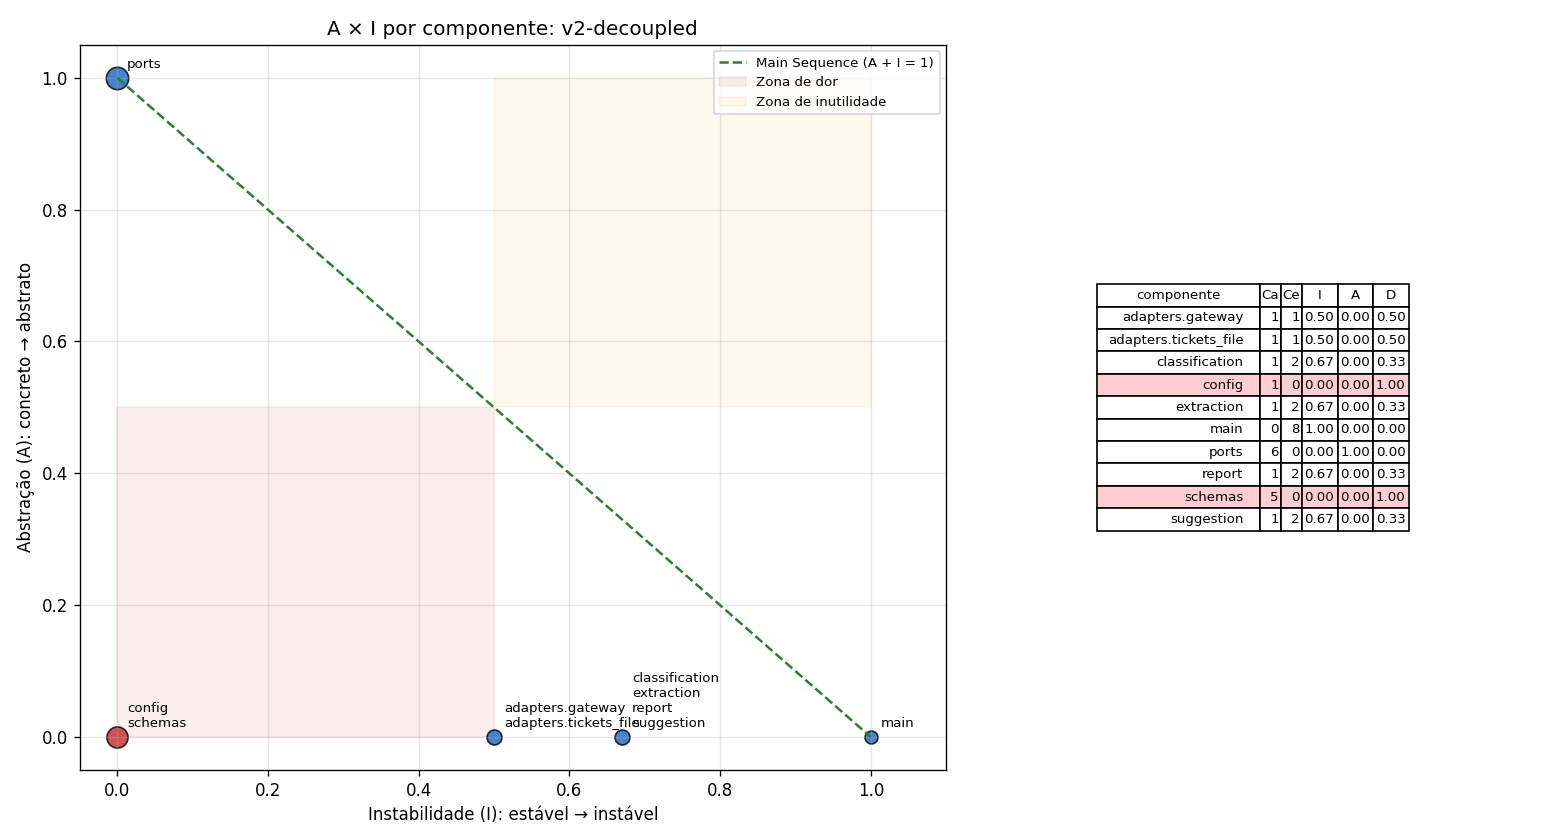
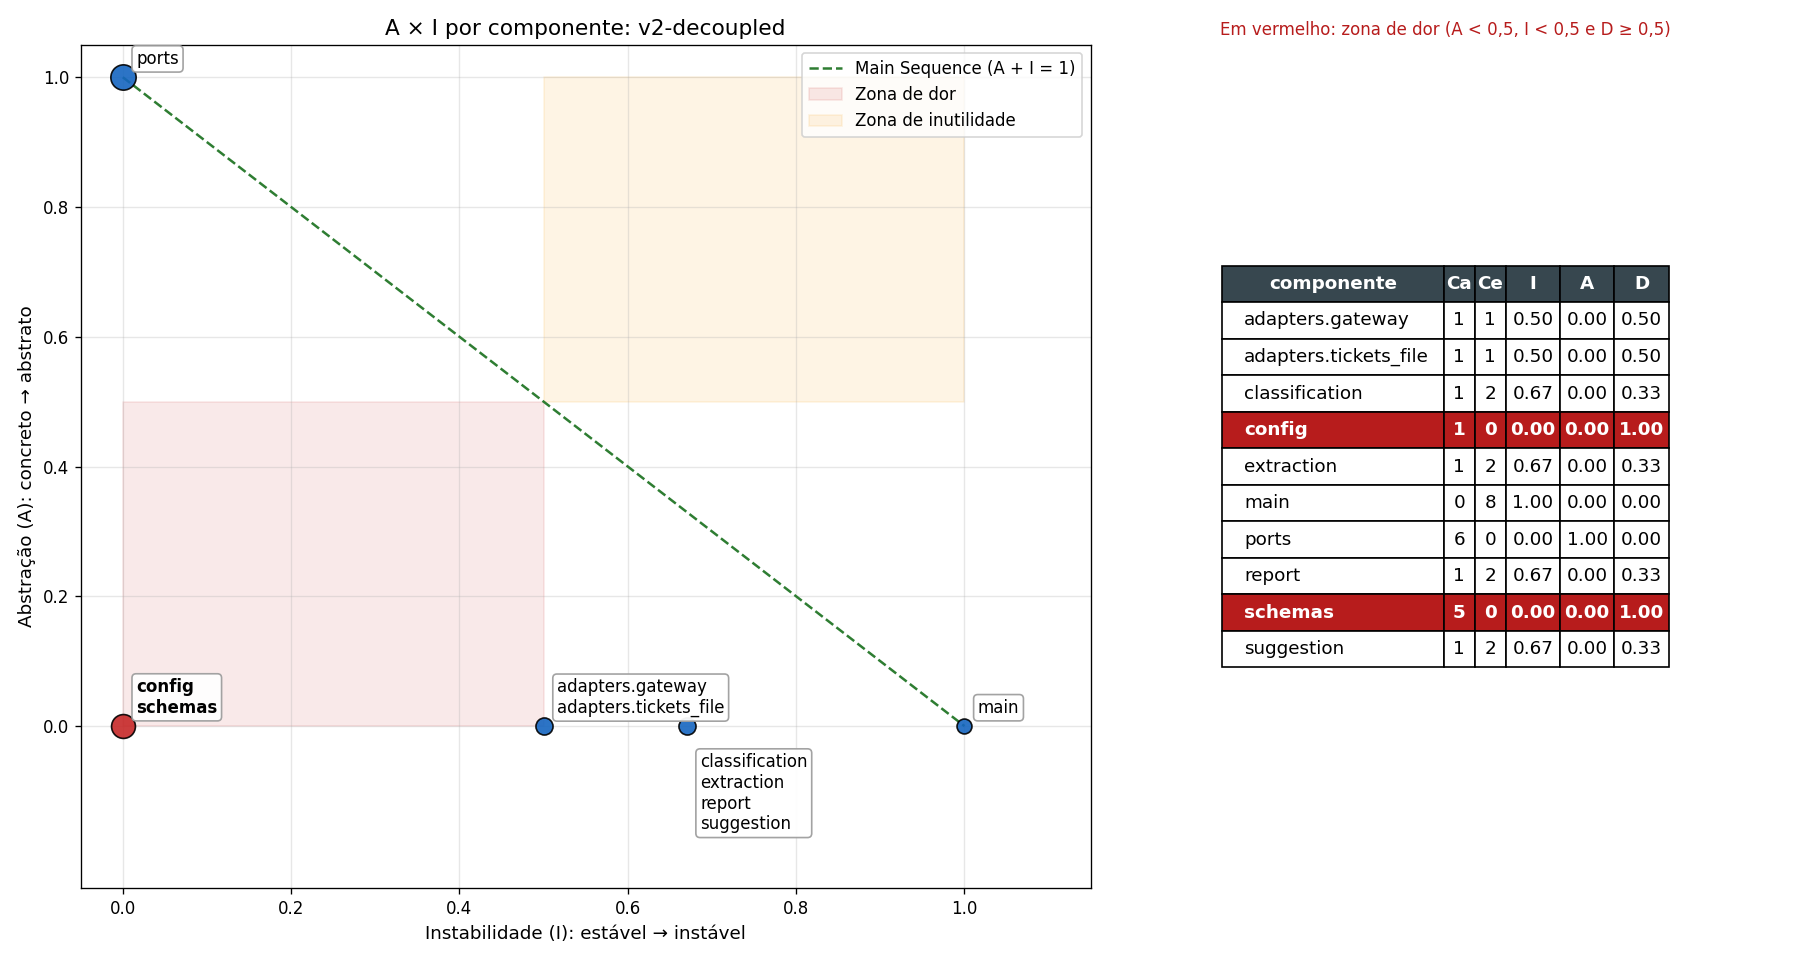
Gráficos de acoplamento legíveis para revisão humana
Tabela com fonte maior e zona de dor em branco sobre vermelho escuro,
rótulos com fundo branco que se alternam entre pontos vizinhos, e o
comparativo como um painel por versão lado a lado, no lugar dos
marcadores sobrepostos. CSVs e tabelas Markdown inalterados.

diff --git a/metrics/coupling.py b/metrics/coupling.py
@@ -199,44 +199,73 @@ def in_pain_zone(row: dict) -> bool:
     return row["a"] < 0.5 and row["i"] < 0.5 and row["d"] >= 0.5
 
 
+def draw_map(ax, rows: list[dict], title: str) -> None:
+    """Desenha o mapa A x I com Main Sequence, zonas e rótulos legíveis num eixo do matplotlib."""
+    ax.plot([0, 1], [1, 0], color="#2e7d32", linestyle="--", linewidth=1.5, label="Main Sequence (A + I = 1)")
+    ax.fill_between([0, 0.5], 0, 0.5, color="#c62828", alpha=0.10, label="Zona de dor")
+    ax.fill_between([0.5, 1], 0.5, 1, color="#f9a825", alpha=0.12, label="Zona de inutilidade")
+
+    # Componentes no mesmo ponto ganham um rótulo só, com os nomes empilhados. Pontos
+    # vizinhos na mesma altura alternam o rótulo entre acima e abaixo, para não encavalar.
+    points: dict[tuple[float, float], list[dict]] = {}
+    for row in rows:
+        points.setdefault((row["i"], row["a"]), []).append(row)
+    previous: tuple[float, float] | None = None
+    below = False
+    for (i, a), group in sorted(points.items()):
+        crowded = previous is not None and previous[1] == a and i - previous[0] < 0.25
+        below = (not below) if crowded else False
+        previous = (i, a)
+        pain = in_pain_zone(group[0])
+        ax.scatter(i, a, s=80 + 25 * max(r["ca"] for r in group), color="#c62828" if pain else "#1565c0",
+                   alpha=0.9, edgecolors="black", zorder=3)
+        lines = len(group)
+        ax.annotate("\n".join(r["component"] for r in group), (i, a), textcoords="offset points",
+                    xytext=(8, -14 * lines - 6 if below else 8), fontsize=10, color="black",
+                    fontweight="bold" if pain else "normal", zorder=4,
+                    bbox={"boxstyle": "round,pad=0.25", "facecolor": "white", "edgecolor": "#9e9e9e", "alpha": 0.95})
+    ax.set_xlim(-0.05, 1.15)
+    ax.set_ylim(-0.25, 1.05)
+    ax.set_yticks([0, 0.2, 0.4, 0.6, 0.8, 1.0])
+    ax.set_xlabel("Instabilidade (I): estável → instável", fontsize=11)
+    ax.set_ylabel("Abstração (A): concreto → abstrato", fontsize=11)
+    ax.set_title(title, fontsize=13)
+    ax.legend(loc="upper right", fontsize=10)
+    ax.grid(alpha=0.3)
+
+
 def plot(rows: list[dict], title: str, path: Path) -> None:
     import matplotlib
 
     matplotlib.use("Agg")
     import matplotlib.pyplot as plt
 
-    fig, (ax, side) = plt.subplots(1, 2, figsize=(13, 7), gridspec_kw={"width_ratios": [3, 2]})
-    ax.plot([0, 1], [1, 0], color="#2e7d32", linestyle="--", label="Main Sequence (A + I = 1)")
-    ax.fill_between([0, 0.5], 0, 0.5, color="#c62828", alpha=0.08, label="Zona de dor")
-    ax.fill_between([0.5, 1], 0.5, 1, color="#f9a825", alpha=0.08, label="Zona de inutilidade")
+    fig, (ax, side) = plt.subplots(1, 2, figsize=(15, 8), gridspec_kw={"width_ratios": [3, 2]})
+    draw_map(ax, rows, f"A × I por componente: {title}")
 
-    # Componentes no mesmo ponto ganham um rótulo só, com os nomes empilhados.
-    points: dict[tuple[float, float], list[dict]] = {}
-    for row in rows:
-        points.setdefault((row["i"], row["a"]), []).append(row)
-    for (i, a), group in points.items():
-        color = "#c62828" if in_pain_zone(group[0]) else "#1565c0"
-        ax.scatter(i, a, s=60 + 20 * max(r["ca"] for r in group), color=color, alpha=0.8, edgecolors="black")
-        ax.annotate("\n".join(r["component"] for r in group), (i, a), textcoords="offset points",
-                    xytext=(6, 6), fontsize=8)
-    ax.set_xlim(-0.05, 1.1)
-    ax.set_ylim(-0.05, 1.05)
-    ax.set_xlabel("Instabilidade (I): estável → instável")
-    ax.set_ylabel("Abstração (A): concreto → abstrato")
-    ax.set_title(f"A × I por componente: {title}")
-    ax.legend(loc="upper right", fontsize=8)
-    ax.grid(alpha=0.3)
-
+    # Tabela legível: texto preto em fundo branco; zona de dor em branco e negrito
+    # sobre vermelho escuro, para o contraste não depender de cor clara.
     side.axis("off")
     cells = [[r["component"], r["ca"], r["ce"], f"{r['i']:.2f}", f"{r['a']:.2f}", f"{r['d']:.2f}"] for r in rows]
-    table = side.table(cellText=cells, colLabels=["componente", "Ca", "Ce", "I", "A", "D"], loc="center")
+    table = side.table(cellText=cells, colLabels=["componente", "Ca", "Ce", "I", "A", "D"], loc="center",
+                       cellLoc="center")
     table.auto_set_font_size(False)
-    table.set_fontsize(8)
+    table.set_fontsize(11)
+    table.scale(1, 1.6)
     table.auto_set_column_width(list(range(6)))
+    for column in range(6):
+        header = table[0, column]
+        header.set_facecolor("#37474f")
+        header.get_text().set_color("white")
+        header.get_text().set_fontweight("bold")
     for index, row in enumerate(rows, start=1):
+        table[index, 0].get_text().set_horizontalalignment("left")
         if in_pain_zone(row):
             for column in range(6):
-                table[index, column].set_facecolor("#ffcdd2")
+                table[index, column].set_facecolor("#b71c1c")
+                table[index, column].get_text().set_color("white")
+                table[index, column].get_text().set_fontweight("bold")
+    side.set_title("Em vermelho: zona de dor (A < 0,5, I < 0,5 e D ≥ 0,5)", fontsize=10, color="#b71c1c")
     fig.tight_layout()
     path.parent.mkdir(parents=True, exist_ok=True)
     fig.savefig(path, dpi=120)

diff --git a/metrics/compare.py b/metrics/compare.py
@@ -1,7 +1,7 @@
 """Compara as medições de várias versões (CSVs gerados por coupling.py).
 
 Gera uma tabela Markdown com Ca, Ce, I, A e D de cada componente por versão e um
-gráfico A × I com as versões sobrepostas.
+gráfico com um mapa A × I por versão, lado a lado.
 
 Uso:
     uv run python metrics/compare.py v1-coupled v2-decoupled main
@@ -12,8 +12,6 @@ import csv
 from pathlib import Path
 
 RESULTS = Path(__file__).parent / "results"
-MARKERS = ["o", "s", "^", "D"]
-COLORS = ["#c62828", "#f9a825", "#2e7d32", "#1565c0"]
 
 
 def load(name: str, results: Path) -> dict[str, dict]:
@@ -49,28 +47,21 @@ def table(versions: list[str], data: dict[str, dict[str, dict]]) -> str:
 
 
 def plot(versions: list[str], data: dict[str, dict[str, dict]], path: Path) -> None:
+    """Um painel por versão, lado a lado e com os mesmos eixos, para comparar ponto a ponto."""
     import matplotlib
 
     matplotlib.use("Agg")
     import matplotlib.pyplot as plt
 
-    fig, ax = plt.subplots(figsize=(9, 8))
-    ax.plot([0, 1], [1, 0], color="#2e7d32", linestyle="--", label="Main Sequence (A + I = 1)")
-    ax.fill_between([0, 0.5], 0, 0.5, color="#c62828", alpha=0.08, label="Zona de dor")
-    ax.fill_between([0.5, 1], 0.5, 1, color="#f9a825", alpha=0.08, label="Zona de inutilidade")
-    for n, version in enumerate(versions):
-        rows = data[version].values()
-        ax.scatter([r["i"] for r in rows], [r["a"] for r in rows], marker=MARKERS[n % len(MARKERS)],
-                   color=COLORS[n % len(COLORS)], s=70, alpha=0.75, edgecolors="black", label=version)
-    ax.set_xlim(-0.05, 1.05)
-    ax.set_ylim(-0.05, 1.05)
-    ax.set_xlabel("Instabilidade (I): estável → instável")
-    ax.set_ylabel("Abstração (A): concreto → abstrato")
-    ax.set_title("A × I por versão")
-    ax.legend(loc="upper right", fontsize=8)
-    ax.grid(alpha=0.3)
+    from coupling import draw_map
+
+    fig, axes = plt.subplots(1, len(versions), figsize=(8 * len(versions), 8), squeeze=False)
+    for ax, version in zip(axes[0], versions):
+        rows = list(data[version].values())
+        pain = sum(in_pain_zone(row) for row in rows)
+        draw_map(ax, rows, f"{version}: {pain} na zona de dor")
     fig.tight_layout()
-    fig.savefig(path, dpi=120)
+    fig.savefig(path, dpi=110)
     plt.close(fig)
 
 
